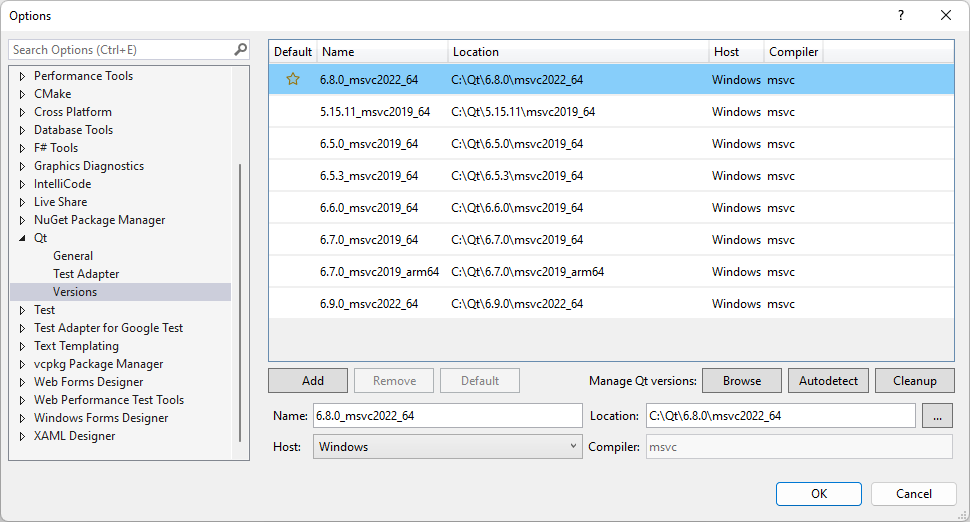
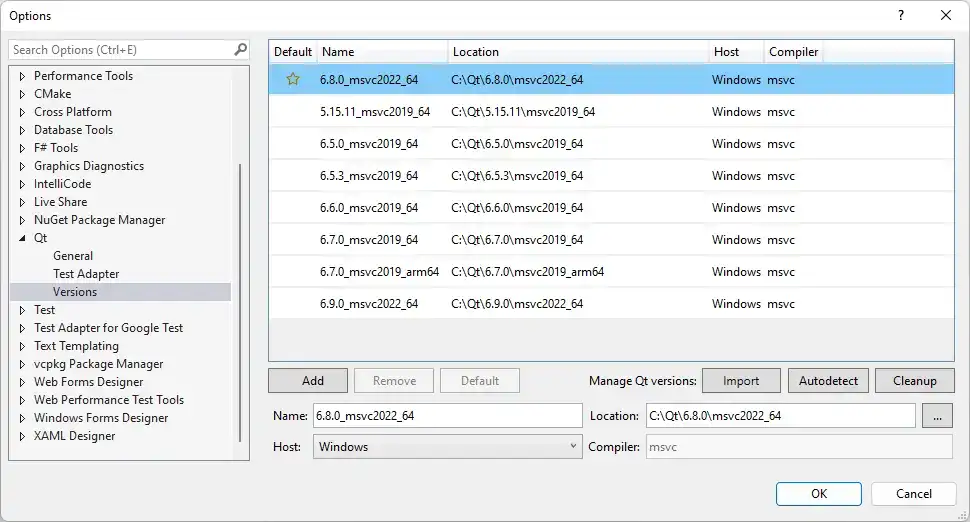
Rename the 'Browse' button to 'Import', update doc and tooltips

diff --git a/QtVsTools.Core/Options/QtVersionsTable.xaml b/QtVsTools.Core/Options/QtVersionsTable.xaml
@@ -222,7 +222,8 @@
               MinHeight="24"
               Margin="0,6,6,0"
               Padding="10,0,0,0"
-              Click="OnAddNewVersion_Click">Add</Button>
+              Click="OnAddNewVersion_Click"
+              ToolTip="Add Qt versions that you installed from other sources than Qt Online Installer or built yourself">Add</Button>
       <Button Grid.Column="1"
               MinWidth="80"
               MinHeight="24"
@@ -258,7 +259,7 @@
               Margin="0,6,6,0"
               Padding="10,0,10,0"
               Content="Default"
-              ToolTip="Set the selected Qt version as default for new projects"
+              ToolTip="Set the selected Qt version as the default version for new projects"
               Click="OnSetAsDefault_Click">
         <Button.Style>
           <Style TargetType="Button">
@@ -311,8 +312,8 @@
               MinHeight="24"
               Margin="0,6,6,0"
               Padding="10,0,10,0"
-              Click="OnBrowseQtInstallation_Click"
-              ToolTip="Import from a Qt installer directory">Browse</Button>
+              Click="OnImportQtInstallation_Click"
+              ToolTip="Import Qt versions that you installed with the Qt Online Installer">Import</Button>
       <Button Grid.Column="5"
               MinWidth="80"
               MinHeight="24"
@@ -320,7 +321,7 @@
               Padding="10,0,10,0"
               x:Name="ButtonAutodetect"
               Click="OnAutodetectQtInstallations_Click"
-              ToolTip="Automatically detect Qt versions from Qt Creator">Autodetect</Button>
+              ToolTip="Automatically detect Qt versions that you installed with the Qt Online Installer or from Qt Creator">Autodetect</Button>
       <Button Grid.Column="6"
               MinWidth="80"
               MinHeight="24"

diff --git a/QtVsTools.Core/Options/QtVersionsTable.cs b/QtVsTools.Core/Options/QtVersionsTable.cs
@@ -258,7 +258,7 @@ namespace QtVsTools.Core.Options
             }
         }
 
-        private void OnBrowseQtInstallation_Click(object sender, RoutedEventArgs e)
+        private void OnImportQtInstallation_Click(object sender, RoutedEventArgs e)
         {
             ThreadHelper.ThrowIfNotOnUIThread();
             if (VsServiceProvider.GetService<SVsUIShell, IVsUIShell>() is not {} iVsUiShell)
